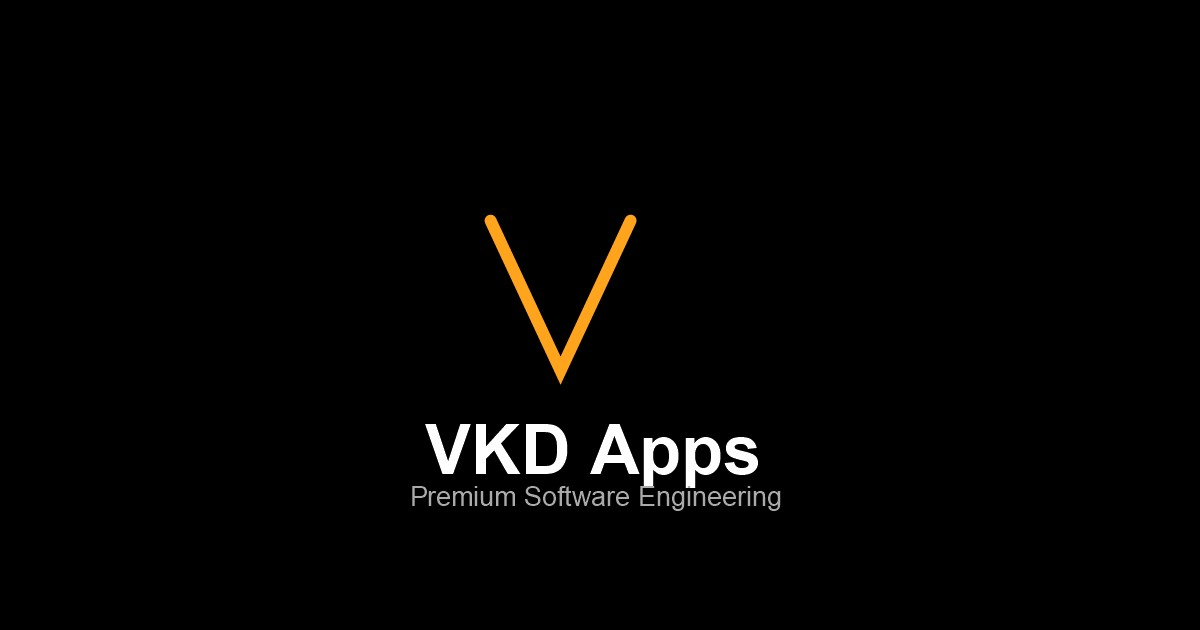
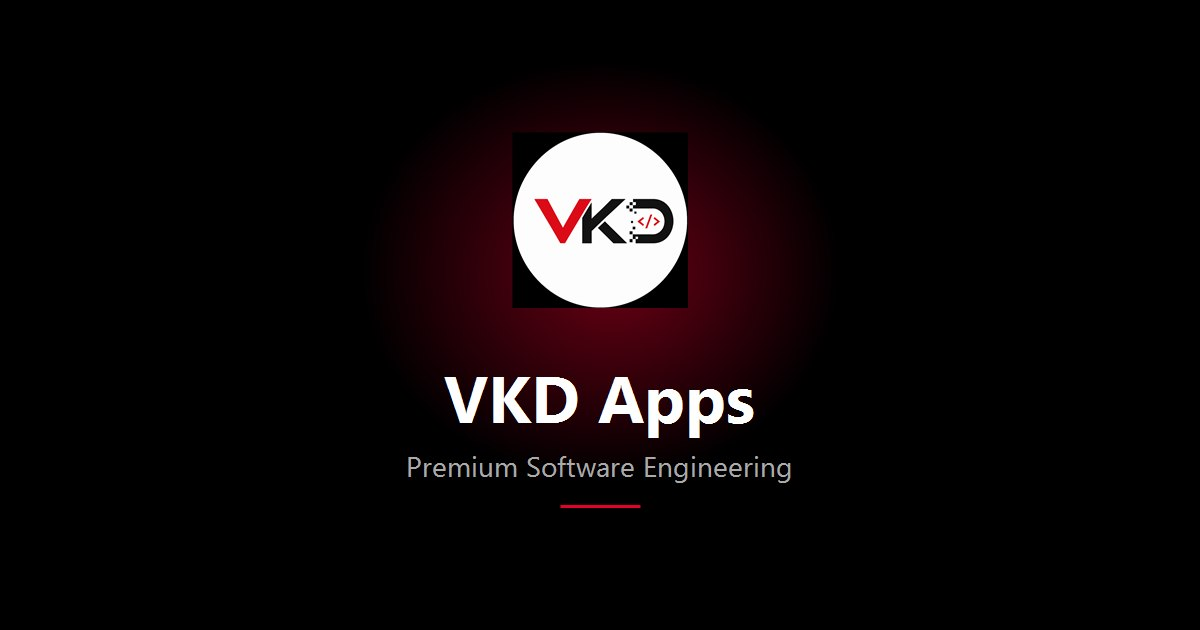
CEO polish pass: structured-data, branding, and SEO hygiene
- Fix 'PickSpiN' typo in PickSpin's JSON-LD (Google indexes this)
- Point Organization schema logo at a real 512px company logo (was the plain
  favicon V mark); add a contactPoint with the business email
- Regenerate the OG share card with the real logo and red brand (was the old
  gold V) so shared links are on-brand
- Copyright year now has a static 2026 fallback so it isn't blank without JS
- Verified: all JSON-LD parses, zero broken internal links, unique meta
  descriptions, every page titled

Changed region(s): [[0.3392, 0.1508, 0.6783, 0.8143]]

diff --git a/index.html b/index.html
@@ -45,10 +45,11 @@
   "@type": "Organization",
   "name": "VKD Apps",
   "url": "https://vkdapps.com",
-  "logo": "https://vkdapps.com/assets/icons/favicon.svg",
+  "logo": "https://vkdapps.com/assets/icons/logo-512.png",
   "description": "VKD Apps builds premium Android, iOS, and web applications engineered with modern technology and outstanding user experience.",
   "address": { "@type": "PostalAddress", "addressCountry": "IN" },
   "email": "business@vkdapps.com",
+  "contactPoint": { "@type": "ContactPoint", "contactType": "customer support", "email": "business@vkdapps.com" },
   "sameAs": []
 }
 </script>
@@ -363,7 +364,7 @@
       </div>
     </div>
     <div class="footer-bottom">
-      <span>© <span data-year></span> VKD Apps. All rights reserved.</span>
+      <span>© <span data-year>2026</span> VKD Apps. All rights reserved.</span>
       <div class="footer-social" aria-label="Social links">
         <a href="mailto:business@vkdapps.com" aria-label="Email">✉</a>
       </div>

diff --git a/pickspin.html b/pickspin.html
@@ -32,7 +32,7 @@
   "@type": "SoftwareApplication",
   "name": "PickSpin",
   "url": "https://vkdapps.com/pickspin.html",
-  "description": "PickSpiN is a casual spin wheel game packed with mini games, math challenges, and party fun — Decision Spinner, Spin Battle multiplayer, Math Challenge, and Race to 10.",
+  "description": "PickSpin is a casual spin wheel game packed with mini games, math challenges, and party fun — Decision Spinner, Spin Battle multiplayer, Math Challenge, and Race to 10.",
   "applicationCategory": "GameApplication",
   "operatingSystem": "Android, iOS",
   "installUrl": [
@@ -236,7 +236,7 @@
       </div>
     </div>
     <div class="footer-bottom">
-      <span>© <span data-year></span> VKD Apps. All rights reserved.</span>
+      <span>© <span data-year>2026</span> VKD Apps. All rights reserved.</span>
       <div class="footer-social" aria-label="Social links"><a href="mailto:business@vkdapps.com" aria-label="Email">✉</a></div>
     </div>
   </div>

diff --git a/about.html b/about.html
@@ -200,7 +200,7 @@
       </div>
     </div>
     <div class="footer-bottom">
-      <span>© <span data-year></span> VKD Apps. All rights reserved.</span>
+      <span>© <span data-year>2026</span> VKD Apps. All rights reserved.</span>
       <div class="footer-social" aria-label="Social links"><a href="mailto:business@vkdapps.com" aria-label="Email">✉</a></div>
     </div>
   </div>

diff --git a/brainboost.html b/brainboost.html
@@ -235,7 +235,7 @@
       </div>
     </div>
     <div class="footer-bottom">
-      <span>© <span data-year></span> VKD Apps. All rights reserved.</span>
+      <span>© <span data-year>2026</span> VKD Apps. All rights reserved.</span>
       <div class="footer-social" aria-label="Social links"><a href="mailto:business@vkdapps.com" aria-label="Email">✉</a></div>
     </div>
   </div>

diff --git a/contact.html b/contact.html
@@ -207,7 +207,7 @@
       </div>
     </div>
     <div class="footer-bottom">
-      <span>© <span data-year></span> VKD Apps. All rights reserved.</span>
+      <span>© <span data-year>2026</span> VKD Apps. All rights reserved.</span>
       <div class="footer-social" aria-label="Social links"><a href="mailto:business@vkdapps.com" aria-label="Email">✉</a></div>
     </div>
   </div>

diff --git a/cookie-policy.html b/cookie-policy.html
@@ -136,7 +136,7 @@
       </div>
     </div>
     <div class="footer-bottom">
-      <span>© <span data-year></span> VKD Apps. All rights reserved.</span>
+      <span>© <span data-year>2026</span> VKD Apps. All rights reserved.</span>
       <div class="footer-social" aria-label="Social links"><a href="mailto:business@vkdapps.com" aria-label="Email">✉</a></div>
     </div>
   </div>

diff --git a/disclaimer.html b/disclaimer.html
@@ -127,7 +127,7 @@
       </div>
     </div>
     <div class="footer-bottom">
-      <span>© <span data-year></span> VKD Apps. All rights reserved.</span>
+      <span>© <span data-year>2026</span> VKD Apps. All rights reserved.</span>
       <div class="footer-social" aria-label="Social links"><a href="mailto:business@vkdapps.com" aria-label="Email">✉</a></div>
     </div>
   </div>

diff --git a/flowcare.html b/flowcare.html
@@ -229,7 +229,7 @@
       </div>
     </div>
     <div class="footer-bottom">
-      <span>© <span data-year></span> VKD Apps. All rights reserved.</span>
+      <span>© <span data-year>2026</span> VKD Apps. All rights reserved.</span>
       <div class="footer-social" aria-label="Social links"><a href="mailto:business@vkdapps.com" aria-label="Email">✉</a></div>
     </div>
   </div>

diff --git a/privacy-policy.html b/privacy-policy.html
@@ -147,7 +147,7 @@
       </div>
     </div>
     <div class="footer-bottom">
-      <span>© <span data-year></span> VKD Apps. All rights reserved.</span>
+      <span>© <span data-year>2026</span> VKD Apps. All rights reserved.</span>
       <div class="footer-social" aria-label="Social links"><a href="mailto:business@vkdapps.com" aria-label="Email">✉</a></div>
     </div>
   </div>

diff --git a/products.html b/products.html
@@ -155,7 +155,7 @@
       </div>
     </div>
     <div class="footer-bottom">
-      <span>© <span data-year></span> VKD Apps. All rights reserved.</span>
+      <span>© <span data-year>2026</span> VKD Apps. All rights reserved.</span>
       <div class="footer-social" aria-label="Social links"><a href="mailto:business@vkdapps.com" aria-label="Email">✉</a></div>
     </div>
   </div>

diff --git a/rent-agreement-maker.html b/rent-agreement-maker.html
@@ -238,7 +238,7 @@
       </div>
     </div>
     <div class="footer-bottom">
-      <span>© <span data-year></span> VKD Apps. All rights reserved.</span>
+      <span>© <span data-year>2026</span> VKD Apps. All rights reserved.</span>
       <div class="footer-social" aria-label="Social links"><a href="mailto:business@vkdapps.com" aria-label="Email">✉</a></div>
     </div>
   </div>

diff --git a/services.html b/services.html
@@ -192,7 +192,7 @@
       </div>
     </div>
     <div class="footer-bottom">
-      <span>© <span data-year></span> VKD Apps. All rights reserved.</span>
+      <span>© <span data-year>2026</span> VKD Apps. All rights reserved.</span>
       <div class="footer-social" aria-label="Social links"><a href="mailto:business@vkdapps.com" aria-label="Email">✉</a></div>
     </div>
   </div>
